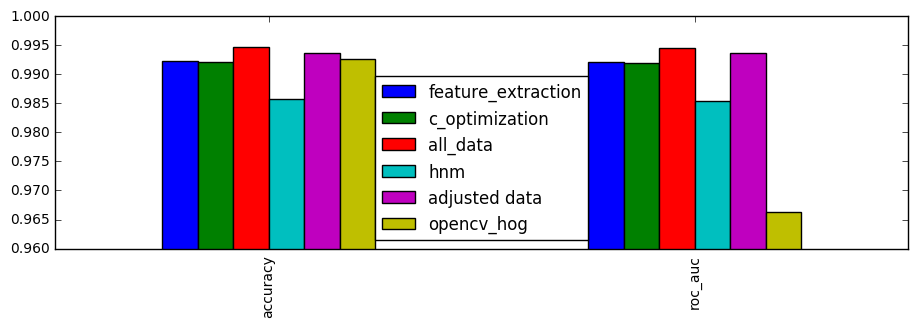
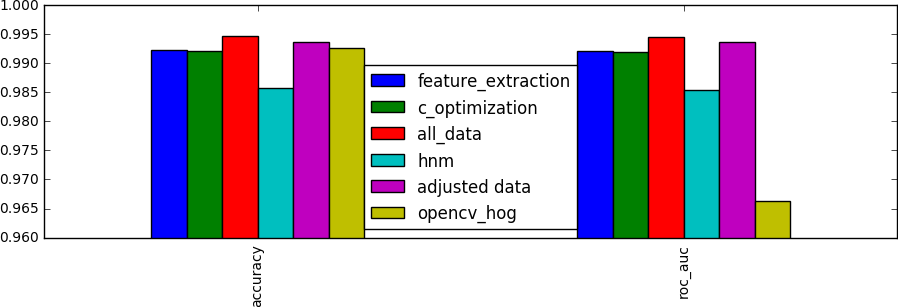
docs: Crop images

Changed region(s): [[0.0, 0.0, 1.0, 1.0]]

diff --git a/README.md b/README.md
@@ -36,7 +36,7 @@ After training, the pipeline could directly be used to extract features from ima
 ## Parameter optimization
 To keep the parameter space manageable, the grid search was executed in steps. On a first run, a Linear SMV with default parameter was used to find the best feature combination out of 2100. After that, a second run was performed to optimize the C parameter of the Linear SMV using the previously determined features. On every run, a 3 fold cross validation was used to find the optimal combination. The score used was AUC.
 
-![Gridsearch](models/result.png)
+![Gridsearch](output_images/cv.jpg)
 
 ## Evaluation
 The results of different experiments were compared in a Jupiter notebook to get a clear overview over thinks that worked and thinks that didn't. As main metric AUC (Area Under Curve. In this case ROC curve) was used since the distribution of vehicle and non-vehicle images were not always balanced in all the experiments. The score was calculated using the validation set. The final model was then retrained on the training and validation set and evaluated with the test set to get an estimate of its performance.  This score, therefore, can’t directly be compared to the experiment scores.
